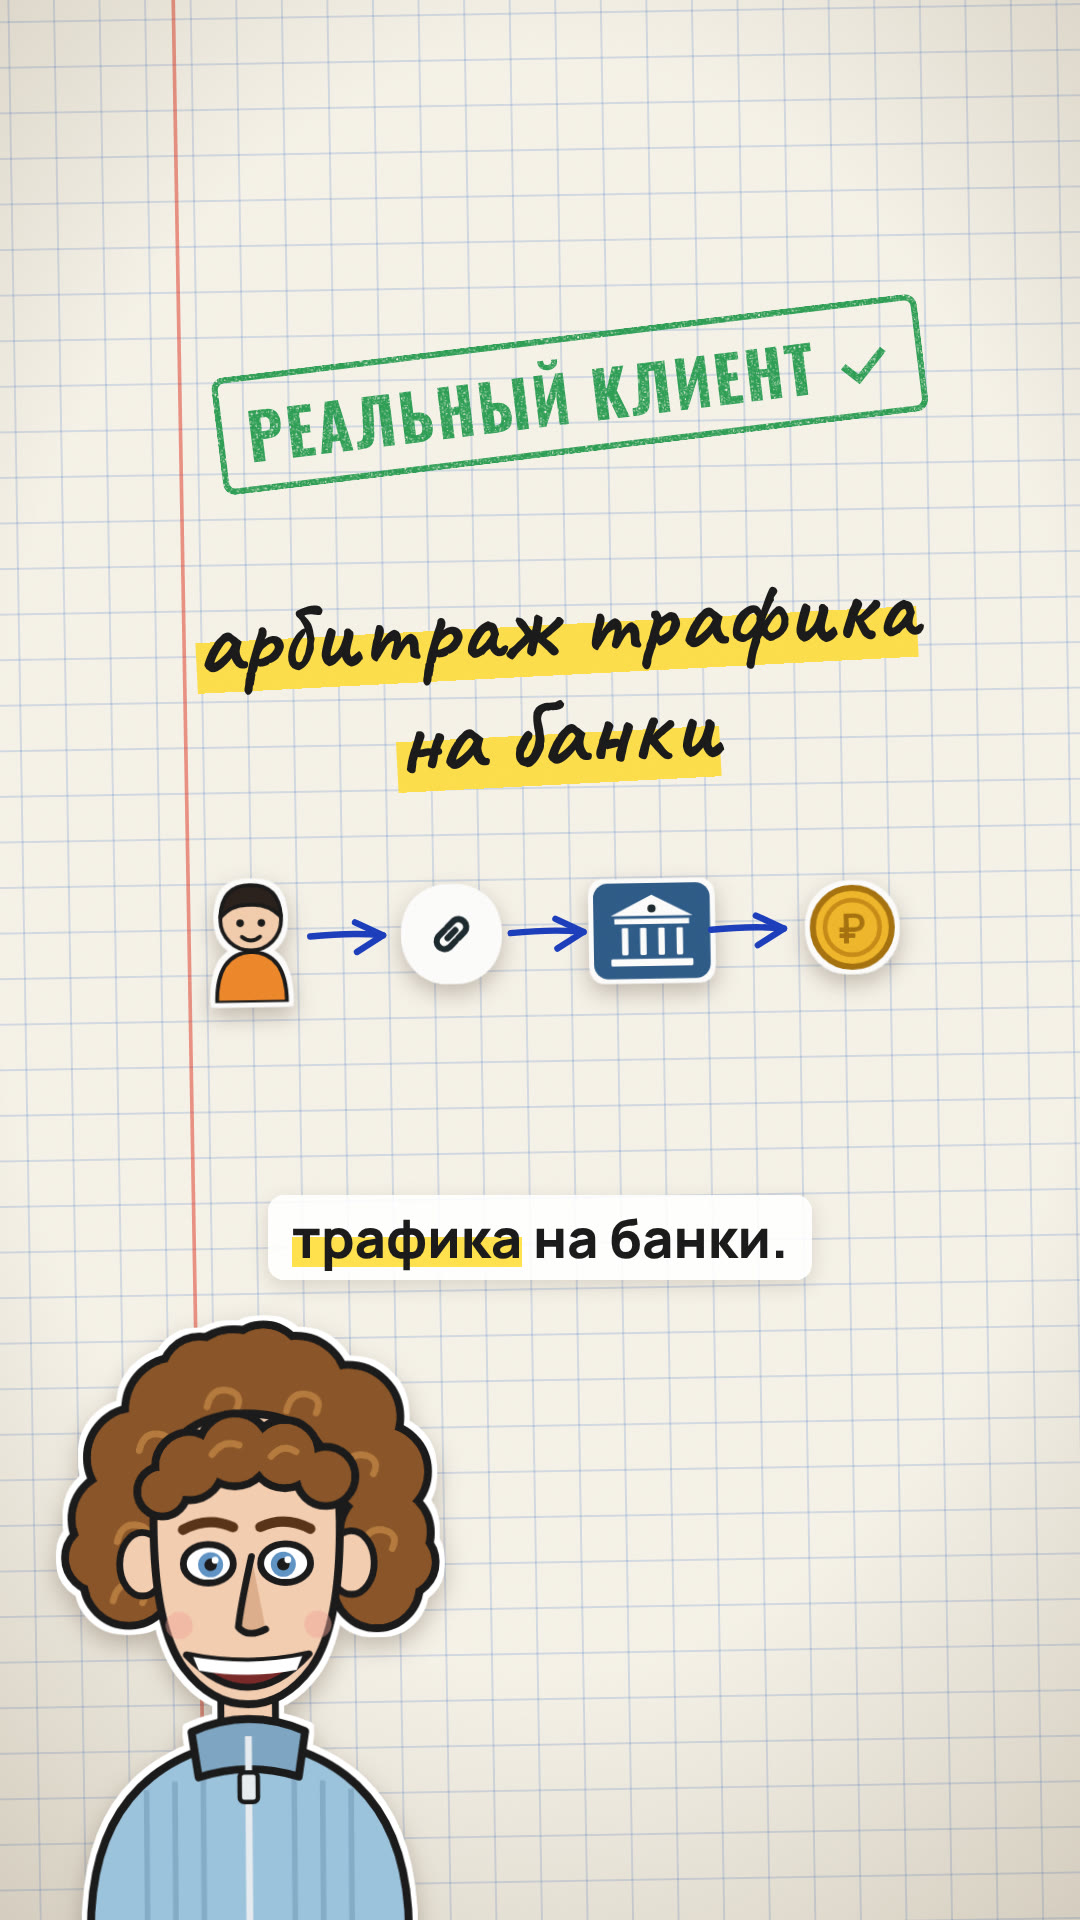
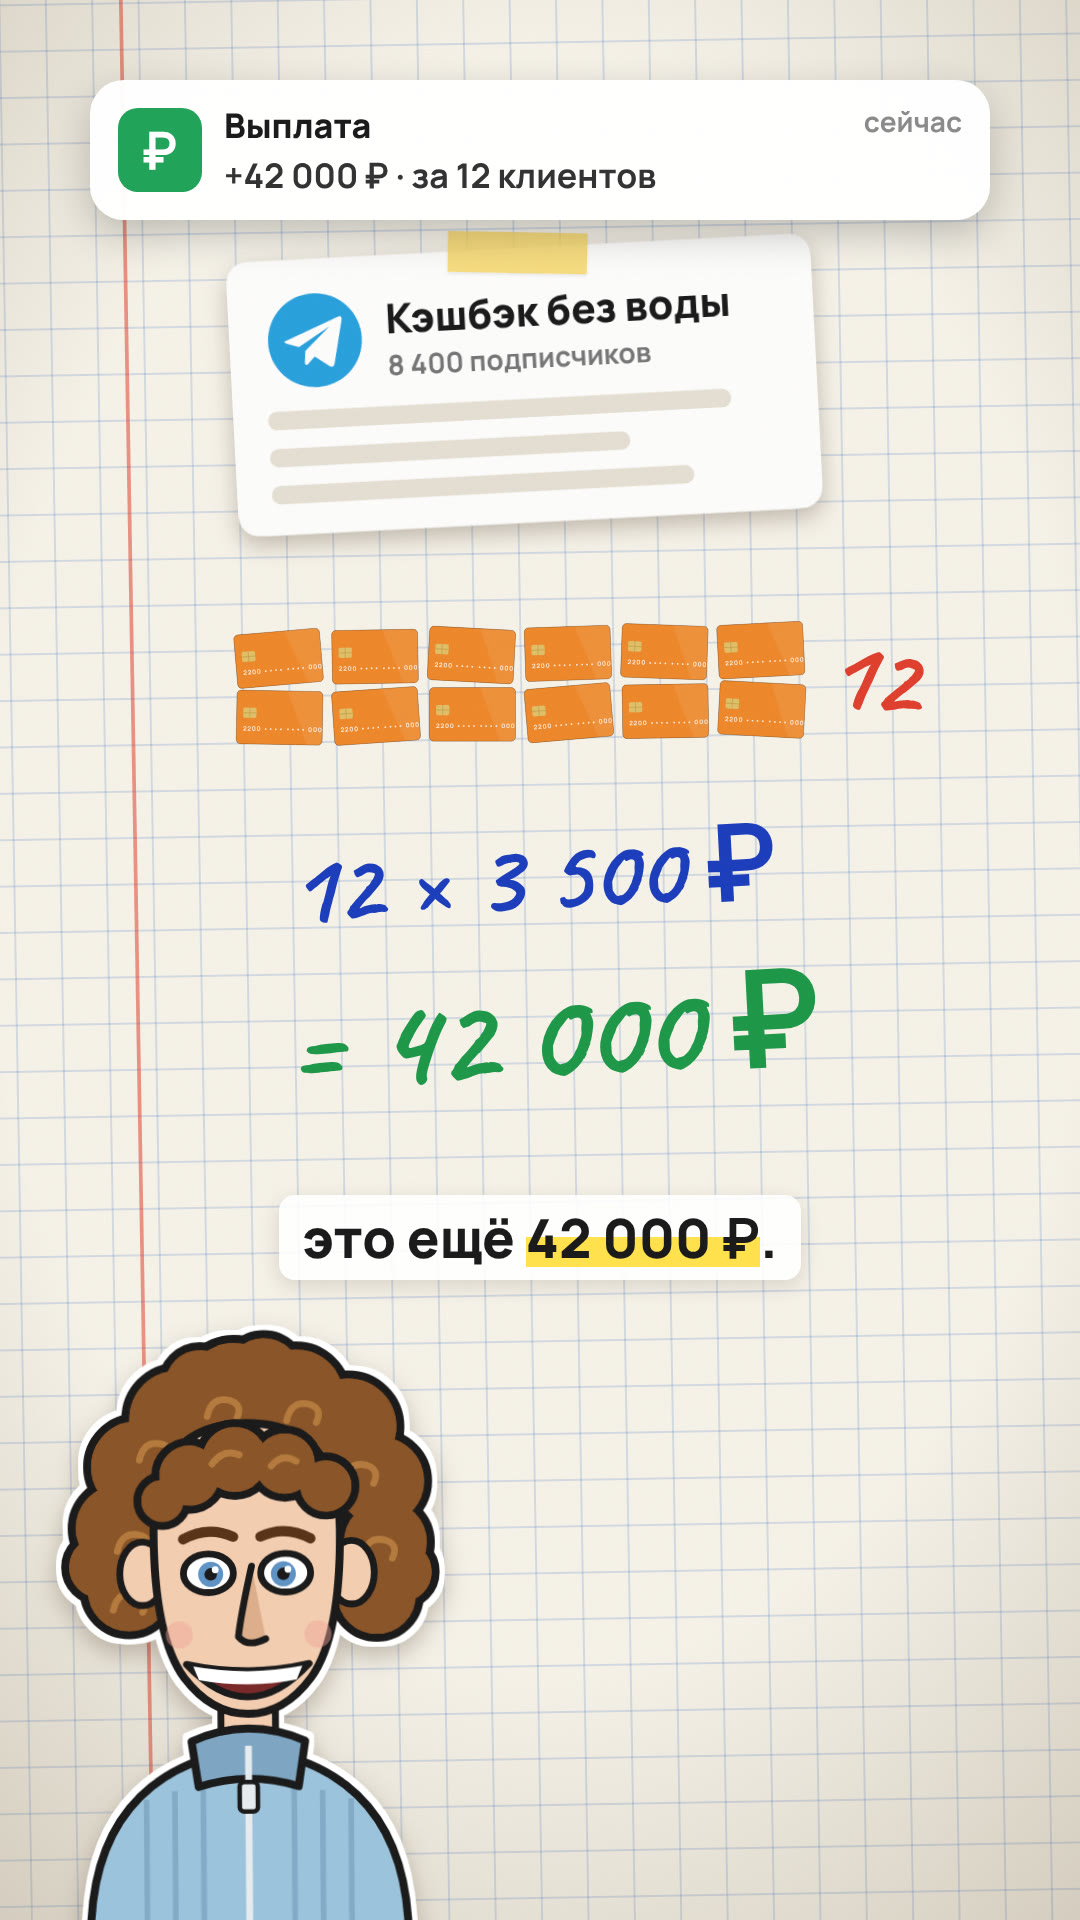
bank-explainer: новый крючок — шквал уведомлений о зачислениях, тряска кадра, счётчик до 87 000, Никита крупно, штамп «в банке не работаю»
Claude-Session: https://claude.ai/code/session_01XMF7DJrTGL9qYDZsdWFdsm

Changed region(s): [[0.0, 0.0, 1.0, 1.0], [0.5194, 0.9062, 0.55, 0.9375]]

diff --git a/reels/bank-explainer/nb01/nb01.js b/reels/bank-explainer/nb01/nb01.js
@@ -19,28 +19,36 @@ const profile = note(`<div style="display:flex;align-items:center;gap:28px"><div
    <div style="margin-top:26px;display:flex;align-items:center;gap:16px;padding:14px 20px;border-radius:18px;border:5px solid ${RED};background:rgba(226,65,47,.07)">${IC.tg(60)}<span style="font:800 40px Manrope;color:${RED}">бесплатный урок →</span></div>`, 720);
 
 const EP = {
-  lead: .5, tail: 2,
+  lead: .15, tail: 2,
   margins: [130, 1330, 2530], camShift: [0, 130, .92],
   stations: { A: [X[0], Y[0], 1, -1], B: [X[1], Y[0], 1, 1.2], C: [X[2], Y[0], 1, -.8], D: [X[2], Y[1], 1, 1], E: [X[1], Y[1], 1.04, -1.2], F: [X[0], Y[1], 1, .6],
               G: [X[0], Y[2], 1, -1], H: [X[1], Y[2], 1, 1], I: [X[2], Y[2], 1.03, -.6], J: [X[2], Y[3], 1, 1], K: [X[1], Y[3], 1, -1], L: [X[0], Y[3], 1, .8] },
-  nikita: { x: 250, y: 1300, w: 500, poses: [[2, 3, "shrug"], [3, 0, "idle"], [7, 0, "phone"], [10, 0, "idle"], [13, 3, "point"], [14, 0, "phone"], [16, 0, "idle"], [17, 2, "point"], [18, 0, "idle"], [21, 0, "point"]] },
+  nikita: { x: 250, y: 1300, w: 500, hero: { x: 540, y: 1235, s: 1.2, until: [2, 0] }, poses: [[0, 0, "phone"], [1, 3, "point"], [2, 0, "idle"], [3, 3, "shrug"], [4, 0, "idle"], [8, 0, "phone"], [11, 0, "idle"], [14, 3, "point"], [15, 0, "phone"], [17, 0, "idle"], [18, 2, "point"], [19, 0, "idle"], [22, 0, "point"]] },
   scenes: [
-    // A — крючок
-    { st: "A", line: `В прошлом месяце банки перевели мне *87${NB}000 рублей*.`, say: "В прошлом месяце банки перевели мне восемьдесят семь тысяч рублей.",
+    // A — крючок: с первого кадра телефон «взрывается» уведомлениями о зачислениях, кадр трясёт, счётчик скачет до 87 000;
+    // Никита крупно по центру с телефоном, на «не работаю» — штамп; потом он «уезжает» в свой угол и начинается тетрадь.
+    { st: "A", line: `Банки заплатили мне *87${NB}000${NB}₽* за месяц,`, say: "Банки заплатили мне восемьдесят семь тысяч рублей за месяц,",
       els: [
-        { hud: 1, w: 3, x: 540, y: 150, a: "down", html: notif("Зачисление", `+1${NB}500 ₽ · партнёрская программа`), outw: 6 },
-        { hud: 1, w: 4, x: 540, y: 300, a: "down", html: notif("Зачисление", `+3${NB}500 ₽ · партнёрская программа`), outw: 6 },
-        { hud: 1, w: 5, x: 540, y: 450, a: "down", html: notif("Зачисление", `+1${NB}500 ₽ · партнёрская программа`), outw: 6 },
-        { w: 6, x: 540, y: 560, a: "count", html: handCnt(230, GRN, "+", " ₽"), count: { from: 0, to: 87000, d: .9 }, r: -3 },
-        { w: 7, a: "draw", html: inkLine(250, 690, 840, 680, RED, 10) },
-        { w: 7, x: 820, y: 330, a: "fade", html: hand("за 1 месяц!", 64, RED), r: 8 },
+        { hud: 1, dt: -0.50, x: 540, y: 470, s: .86, r: -3, a: "cut", dur: .22, shake: 0.7, html: notif("Зачисление", `+1${NB}500${NB}₽ · дебетовая карта`), outScene: 2, z: 71+0 },
+        { hud: 1, dt: -0.22, x: 560, y: 535, s: .86, r: 4, a: "pop", dur: .22, shake: 0.7, html: notif("Зачисление", `+3${NB}500${NB}₽ · кредитная карта`), outScene: 2, z: 71+1 },
+        { hud: 1, dt: 0.06, x: 520, y: 600, s: .86, r: -5, a: "pop", dur: .22, shake: 0.7, html: notif("Зачисление", `+4${NB}000${NB}₽ · кредитная карта`), outScene: 2, z: 71+2 },
+        { hud: 1, dt: 0.34, x: 570, y: 665, s: .86, r: 3, a: "pop", dur: .22, shake: 0.7, html: notif("Зачисление", `+1${NB}500${NB}₽ · дебетовая карта`), outScene: 2, z: 71+3 },
+        { hud: 1, dt: 0.62, x: 530, y: 730, s: .86, r: -2, a: "pop", dur: .22, shake: 0.7, html: notif("Зачисление", `+3${NB}500${NB}₽ · кредитная карта`), outScene: 2, z: 71+4 },
+        { hud: 1, dt: 0.95, x: 550, y: 800, s: .86, r: 5, a: "pop", dur: .22, shake: 1.4, html: notif("Выплата", `+45${NB}000${NB}₽ · партнёрская программа`), outScene: 2, z: 71+5 },
+        { hud: 1, dt: 1.30, x: 540, y: 870, s: .86, r: -3, a: "pop", dur: .22, shake: 1.4, html: notif("Выплата", `+28${NB}000${NB}₽ · партнёрская программа`), outScene: 2, z: 71+6 },
+        { w: 0, dl: -.5, x: 540, y: 300, a: "cut", html: handCnt(250, GRN, "+", " ₽"), count: { from: 1500, steps: [[0.00, 1500], [0.28, 5000], [0.56, 9000], [0.84, 10500], [1.12, 14000], [1.45, 59000], [1.80, 87000]] }, r: -3 },
+        { w: 4, a: "draw", dur: .35, html: inkLine(170, 440, 910, 428, RED, 12) },
       ] },
-    { line: "Я ничего не продаю и не беру кредиты.", say: "Я ничего не продаю и не беру кредиты.",
+    { line: "а я у них даже *не работаю*.", say: "а я у них даже не работаю.",
       els: [
-        { w: 1, x: 540, y: 880, a: "write", html: hand("ничего не продаю", 76, PEN), r: -2 },
-        { w: 3, a: "draw", html: inkLine(300, 885, 780, 875, RED, 9) },
-        { w: 5, x: 540, y: 1020, a: "write", html: hand("кредитов не беру", 76, PEN), r: -2 },
-        { w: 7, a: "draw", html: inkLine(300, 1025, 780, 1015, RED, 9) },
+        { hud: 1, w: 4, x: 540, y: 1060, a: "stamp", shake: 1.6, html: stamp("в банке не работаю", RED, 70), r: -7, z: 80 },
+      ] },
+    { line: "Ничего не продаю и не беру кредиты.", say: "Ничего не продаю и не беру кредиты.",
+      els: [
+        { w: 0, x: 540, y: 880, a: "write", html: hand("ничего не продаю", 76, PEN), r: -2 },
+        { w: 2, a: "draw", html: inkLine(300, 885, 780, 875, RED, 9) },
+        { w: 4, x: 540, y: 1020, a: "write", html: hand("кредитов не беру", 76, PEN), r: -2 },
+        { w: 5, a: "draw", html: inkLine(300, 1025, 780, 1015, RED, 9) },
       ] },
     { line: "Покажу на цифрах, *за что* мне платят.", say: "Покажу на цифрах, за что мне платят.",
       els: [

diff --git a/reels/bank-explainer/notebook.js b/reels/bank-explainer/notebook.js
@@ -104,7 +104,7 @@ function mountNB(EP, wordTimes, mouth) {
     d.style.zIndex = e.z || (e.hud ? 70 : 5);
     (e.hud ? stage : world).appendChild(d);
     if (e.a === "draw") e.paths = [...d.querySelectorAll(".dr")].map(p => { const L = p.getTotalLength(); p.style.strokeDasharray = L; return [p, L]; }), e.heads = [...d.querySelectorAll(".hd")];
-    if (e.a === "count") e.num = d.querySelector(".num");
+    if (e.count) e.num = d.querySelector(".num");
   });
   // Никита-ведущий (HUD, левый нижний угол): позы по сценам
   const NK = EP.nikita, nk = document.createElement("div"); nk.id = "nik"; nk.style.cssText = `left:${NK.x}px;top:${NK.y}px`;
@@ -112,7 +112,11 @@ function mountNB(EP, wordTimes, mouth) {
   nk.innerHTML = poses.map(p => `<div class="pz stk" data-p="${p}">${CH.nikita({ pose: p, w: NK.w })}</div>`).join(""); stage.appendChild(nk);
   const pz = NK.poses.map(([si, w, p]) => [TL.T[si].wt[Math.min(w, TL.T[si].wt.length - 1)], p]).sort((a, b) => a[0] - b[0]);
   const sub = document.getElementById("sub");
+  const shakes = TL.els.filter(e => e.shake).map(e => [e.at + (e.a === "stamp" ? .2 : .05), e.shake]);
+  const heroEnd = NK.hero ? TL.T[NK.hero.until[0]].wt[NK.hero.until[1]] : -1;
   window.setT = t => {
+    let sh = 0; for (const [st, a] of shakes) if (t >= st && t < st + .35) sh += a * (1 - (t - st) / .35);
+    stage.style.transform = sh ? `translate(${(Math.sin(t * 97) * 9 * sh).toFixed(1)}px,${(Math.cos(t * 83) * 9 * sh).toFixed(1)}px) scale(${1 + .015 * Math.min(1, sh)})` : "none";
     // камера
     let c = cams[0].c, prev = c;
     for (const ck of cams) if (t >= ck.t) { const r = ease.io(cl((t - ck.t) / .8)); const a = prev; c = [a[0] + (ck.c[0] - a[0]) * r, a[1] + (ck.c[1] - a[1]) * r, (a[2] || 1) + ((ck.c[2] || 1) - (a[2] || 1)) * r, (a[3] || 0) + ((ck.c[3] || 0) - (a[3] || 0)) * r]; prev = ck.c; }
@@ -135,7 +139,7 @@ function mountNB(EP, wordTimes, mouth) {
       else if (e.a === "stamp") { sc = 1.9 - .9 * ease.out(p); op = cl(p * 2.5); if (p >= 1) { const k = cl((t - e.at - dur) / .18); dx = Math.sin(k * 30) * 6 * (1 - k); } }
       else if (e.a === "write") d.firstElementChild.style.clipPath = `inset(-40px calc(${((1 - p) * 100).toFixed(1)}% - ${(60 * p).toFixed(0)}px) -40px -40px)`;
       else if (e.a === "draw") { const r = ease.io(cl((t - e.at) / (e.dur || .55))); e.paths.forEach(([pp, L]) => pp.style.strokeDashoffset = L * (1 - r)); e.heads.forEach(h => h.style.opacity = r > .92 ? 1 : 0); }
-      if (e.a === "count" && e.count) { const cc = e.count, r = ease.out(cl((t - e.at) / (cc.d || .9))); e.num.innerHTML = (cc.pre || "") + fmt(cc.from + (cc.to - cc.from) * r).split(/\D+/).join('<span style="display:inline-block;width:.2em"></span>') + (cc.post || ""); }
+      if (e.count && e.num) { const cc = e.count; let v; if (cc.steps) { let pv = cc.from, cv = cc.from, st = e.at; for (const [sd, sv] of cc.steps) if (t >= e.at + sd) { pv = cv; cv = sv; st = e.at + sd; } v = pv + (cv - pv) * ease.out(cl((t - st) / .18)); } else v = cc.from + (cc.to - cc.from) * ease.out(cl((t - e.at) / (cc.d || .9))); e.num.innerHTML = (cc.pre || "") + fmt(v).split(/\D+/).join('<span style="display:inline-block;width:.2em"></span>') + (cc.post || ""); }
       if (e.bob) dy += Math.sin(t * 2.2 + e.x * .01) * 4;
       if (q > 0) { op *= 1 - q; if (e.hud) dy -= 60 * q; else sc *= 1 - .1 * q; }
       d.style.opacity = op;
@@ -144,11 +148,14 @@ function mountNB(EP, wordTimes, mouth) {
       d.style.transform = `translate(-50%,-50%) translate(${dx}px,${dy}px) scale(${s * sc}) rotate(${rot}deg)`;
     }
     // Никита: поза, дыхание, моргание, рот по громкости голоса (mouth[кадр] 0..1)
-    let pose = "idle"; for (const [pt, p] of pz) if (t >= pt) pose = p;
+    let pose = NK.hero ? NK.poses[0][2] : "idle"; for (const [pt, p] of pz) if (t >= pt) pose = p;
     nk.querySelectorAll(".pz").forEach(n => n.style.display = n.dataset.p === pose ? "block" : "none");
-    const enter = ease.out(cl((t - .05) / .6));
-    nk.style.transform = `translate(-50%,0) translateY(${(1 - enter) * 500 + Math.sin(t * 2) * 5}px) rotate(${Math.sin(t * 1.1) * 1.2}deg)`;
-    const bl = (t % 3.7) < .11; nk.querySelectorAll(".blink").forEach(b => b.style.transform = bl ? "scaleY(.12)" : "none");
+    const enter = NK.hero ? 1 : ease.out(cl((t - .05) / .6));
+    let nx = NK.x, ny = NK.y, ns = 1;
+    if (NK.hero) { const r = ease.io(cl((t - heroEnd) / .7)); nx = NK.hero.x + (NK.x - NK.hero.x) * r; ny = NK.hero.y + (NK.y - NK.hero.y) * r; ns = NK.hero.s + (1 - NK.hero.s) * r; }
+    nk.style.left = nx + "px"; nk.style.top = ny + "px";
+    nk.style.transform = `translate(-50%,0) translateY(${(1 - enter) * 500 + Math.sin(t * 2) * 5}px) scale(${ns}) rotate(${Math.sin(t * 1.1) * 1.2}deg)`;
+    const bl = ((t + 1.6) % 3.7) < .11; nk.querySelectorAll(".blink").forEach(b => b.style.transform = bl ? "scaleY(.12)" : "none");
     const lv = mouth ? (mouth[Math.round(t * 30)] || 0) : -1;
     const m = lv < 0 ? "m-grin" : lv > .55 ? "m-open" : lv > .18 ? "m-mid" : "m-grin";
     nk.querySelectorAll(".m-grin,.m-open,.m-mid").forEach(g => g.style.display = g.classList.contains(m) ? "inline" : "none");

diff --git a/reels/bank-explainer/shoot_t.js b/reels/bank-explainer/shoot_t.js
@@ -1,0 +1,14 @@
+// node shoot_t.js <ep_dir> <out.png> t1,t2,... — кадры в заданные секунды, склейка в ряд (проверка динамики)
+const { chromium } = require("playwright"); const path = require("path");
+(async () => {
+  const [ep, out, ts] = process.argv.slice(2);
+  const b = await chromium.launch(); const pg = await b.newPage({ viewport: { width: 1080, height: 1920 } });
+  pg.on("pageerror", e => console.log("ERR", e.message));
+  await pg.goto("file://" + path.resolve(__dirname, "page_nb.html"));
+  await pg.addScriptTag({ path: path.resolve(ep, path.basename(ep) + ".js") });
+  await pg.evaluate(() => document.fonts.ready); await pg.evaluate(() => mountNB(EP));
+  const T = ts.split(",").map(Number); let i = 0;
+  for (const t of T) { await pg.evaluate(t => setT(t), t); await pg.waitForTimeout(40); await pg.screenshot({ path: out.replace(".png", `_${i++}.png`) }); }
+  console.log(await pg.evaluate(() => JSON.stringify(TL.T.slice(0, 5).map(x => [x.t0.toFixed(2), x.t1.toFixed(2)]))));
+  await b.close();
+})();
